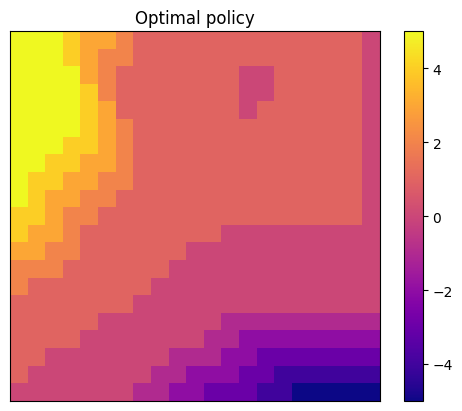
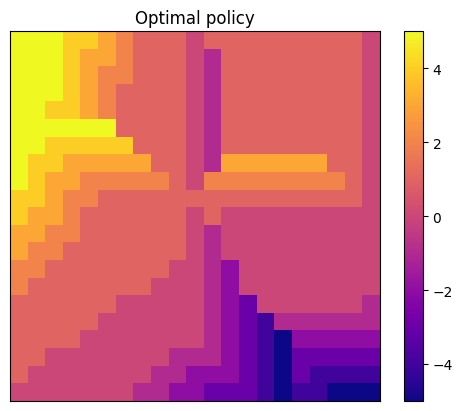
car rental 4_7

diff --git a/chapter04/car_rental.py b/chapter04/car_rental.py
@@ -42,19 +42,17 @@ class CarRental(gym.Env):
                     reward_ = -ACTION_COST * (action - 1)
                 else:
                     reward_ = -ACTION_COST * abs(action)
+                if self.modified:
+                    reward_ -= PARKING_COST * (np.maximum(state_ - 1, 0) // MAX_PARKING).sum()
                 for rentals in product(*[range(MAX_RENTALS + 1)] * 2):
                     prob_rent = np.prod(np.diag(rentals_pmf[list(rentals)]))
                     rent = np.minimum(rentals, state_)
                     state__ = state_ - rent
-                    reward__ = reward_ + RENT_REWARD * rent.sum()
+                    reward = reward_ + RENT_REWARD * rent.sum()
                     for returns in product(*[range(MAX_RETURNS + 1)] * 2):
                         prob = prob_rent * np.prod(np.diag(returns_pmf[list(returns)]))
                         ret = np.minimum(returns, MAX_CARS - state__)
                         new_state = state__ + ret
-                        if self.modified:
-                            reward = reward__ - PARKING_COST * (np.maximum(new_state - 1, 0) // MAX_PARKING).sum()
-                        else:
-                            reward = reward__
                         self.prob[state][action][tuple(new_state)] += prob
                         self.rewards[state][action][tuple(new_state)] += prob * reward
         self.rewards = np.divide(self.rewards, self.prob, out=np.zeros_like(self.prob), where=self.prob != 0.0)
@@ -76,6 +74,8 @@ class CarRental(gym.Env):
             reward = -ACTION_COST * (action - 1)
         else:
             reward = -ACTION_COST * abs(action)
+        if self.modified:
+            reward -= PARKING_COST * (np.maximum(self.state - 1, 0) // MAX_PARKING).sum()
 
         rentals = self.np_random.poisson(lam=LAMBDA_RENTALS)
         rent = np.minimum(rentals, self.state)
@@ -85,8 +85,6 @@ class CarRental(gym.Env):
         returns = self.np_random.poisson(lam=LAMBDA_RETURNS)
         ret = np.minimum(returns, MAX_CARS - self.state)
         self.state += ret
-        if self.modified:
-            reward -= PARKING_COST * (np.maximum(self.state - 1, 0) // MAX_PARKING).sum()
 
         return self.state, reward, False, False, {"rentals": rentals, "returns": returns}
 
